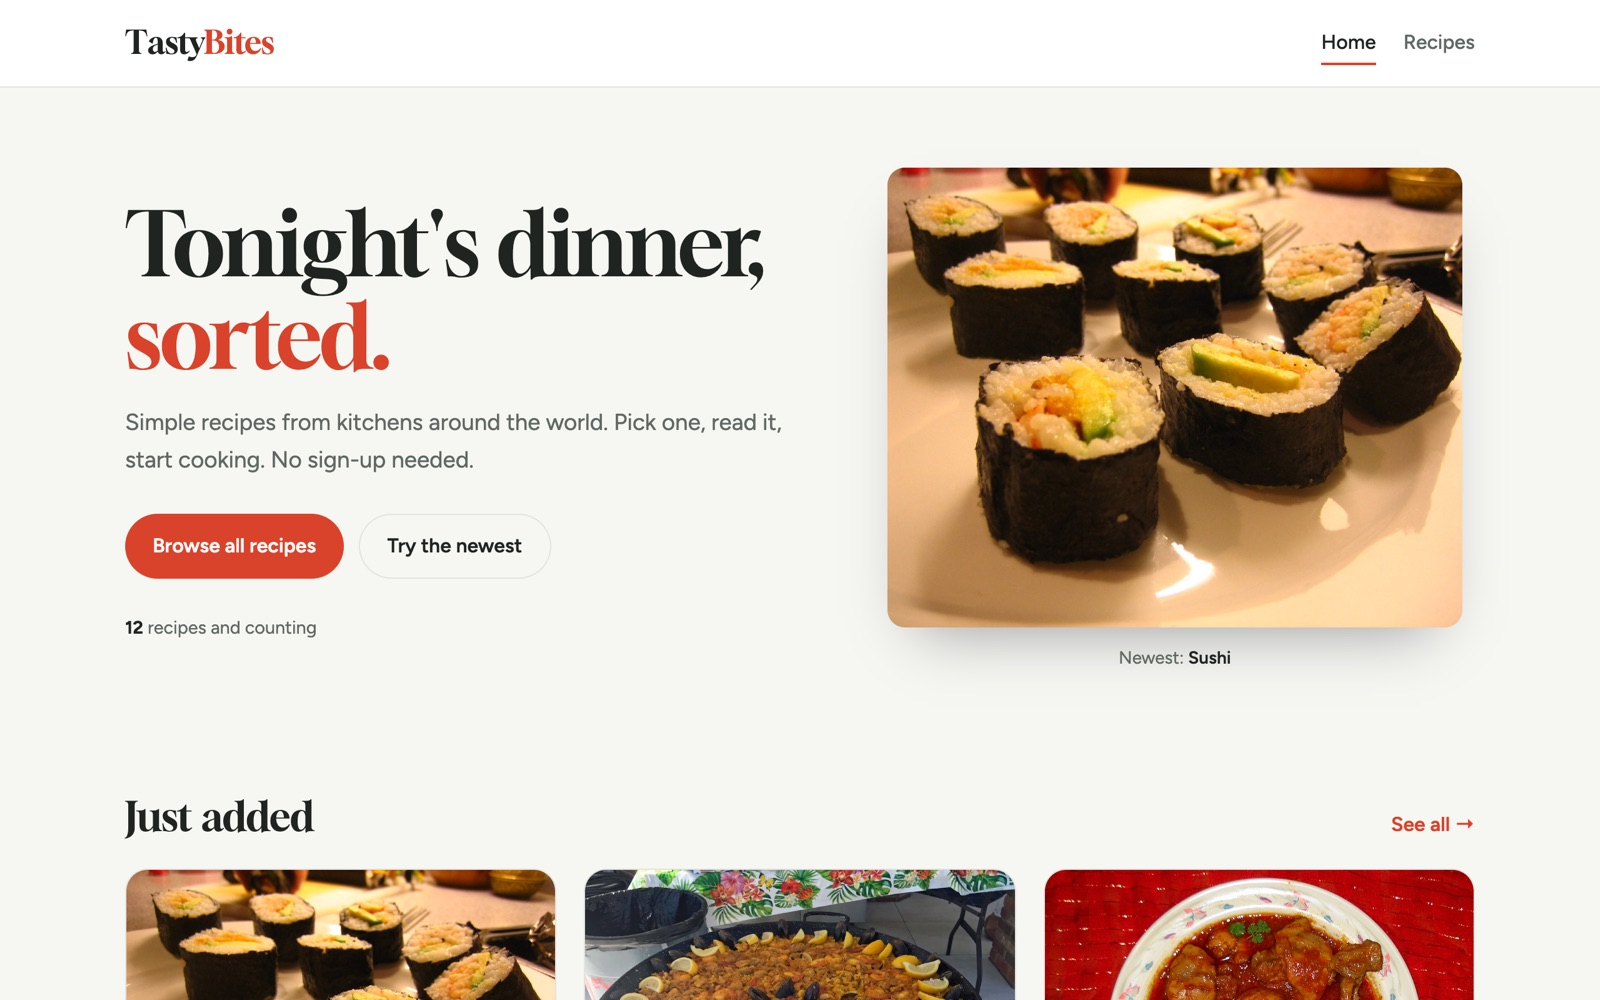
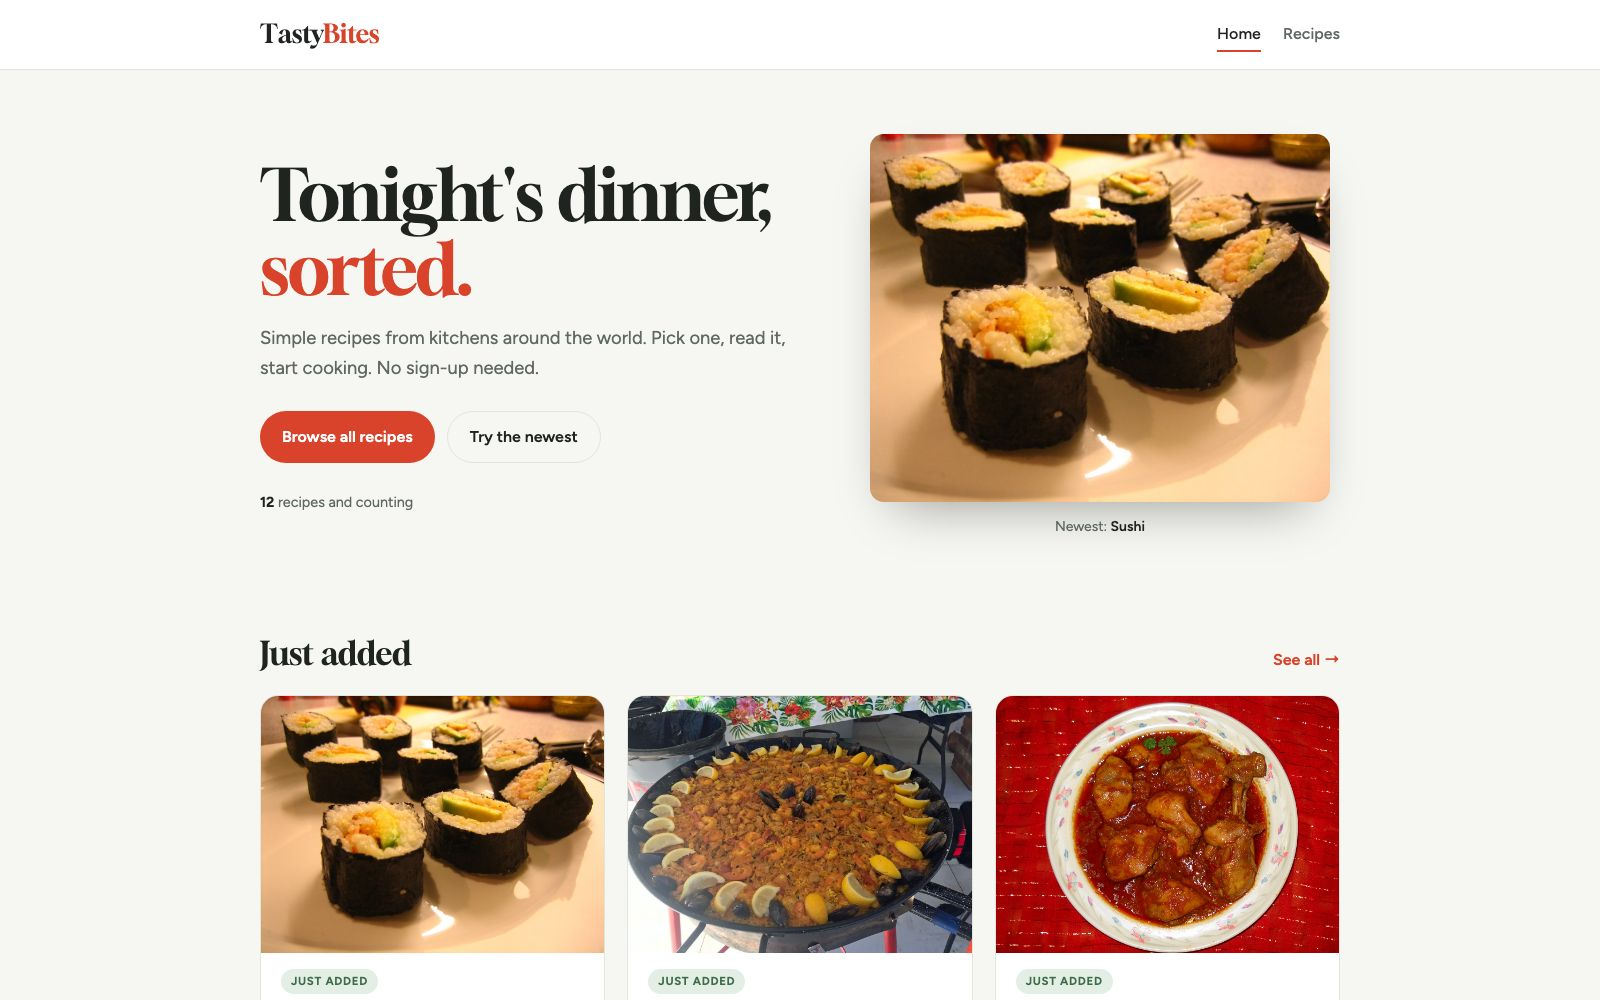
docs: README screenshots follow light/dark theme

diff --git a/README.md b/README.md
@@ -2,11 +2,11 @@
 
 A recipe website in two parts: a **public site** where visitors browse recipes without signing in, and an **admin app** where a signed-in admin creates and edits them. Both are Angular apps on top of one ASP.NET Core API built with the ABP framework.
 
-![Public site – home page](docs/screenshots/public-home.jpg)
+<picture><source media="(prefers-color-scheme: dark)" srcset="docs/screenshots/public-home-dark.jpg"><img alt="Public site – home page" src="docs/screenshots/public-home.jpg"></picture>
 
 | Recipe page | On a phone |
 |---|---|
-| ![Recipe page with ingredients and numbered steps](docs/screenshots/public-recipe.jpg) | ![Recipe page on a phone, ingredients first](docs/screenshots/public-recipe-mobile.jpg) |
+| <picture><source media="(prefers-color-scheme: dark)" srcset="docs/screenshots/public-recipe-dark.jpg"><img alt="Recipe page with ingredients and numbered steps" src="docs/screenshots/public-recipe.jpg"></picture> | <picture><source media="(prefers-color-scheme: dark)" srcset="docs/screenshots/public-recipe-mobile-dark.jpg"><img alt="Recipe page on a phone, ingredients first" src="docs/screenshots/public-recipe-mobile.jpg"></picture> |
 
 | Admin dashboard | Admin recipe form |
 |---|---|
